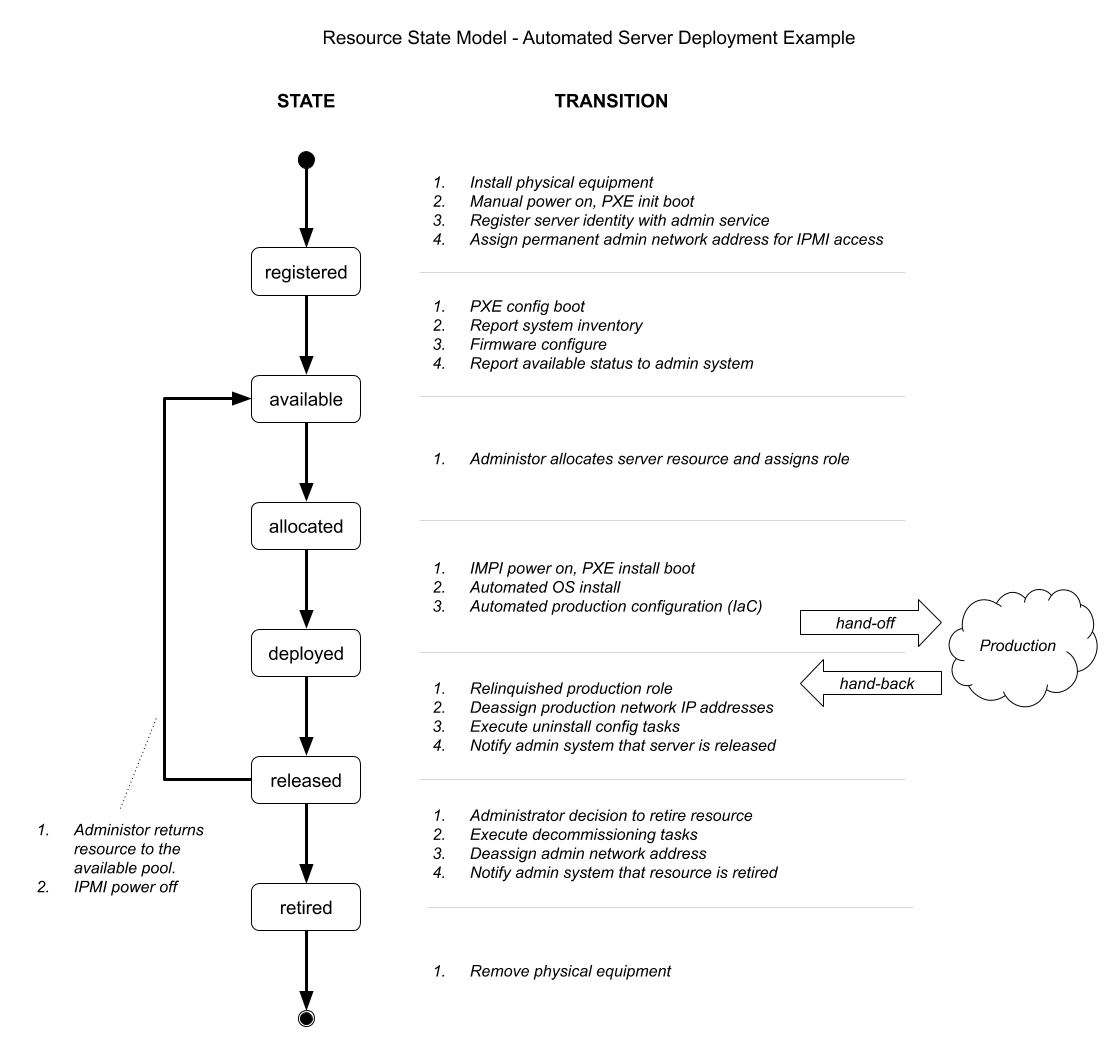
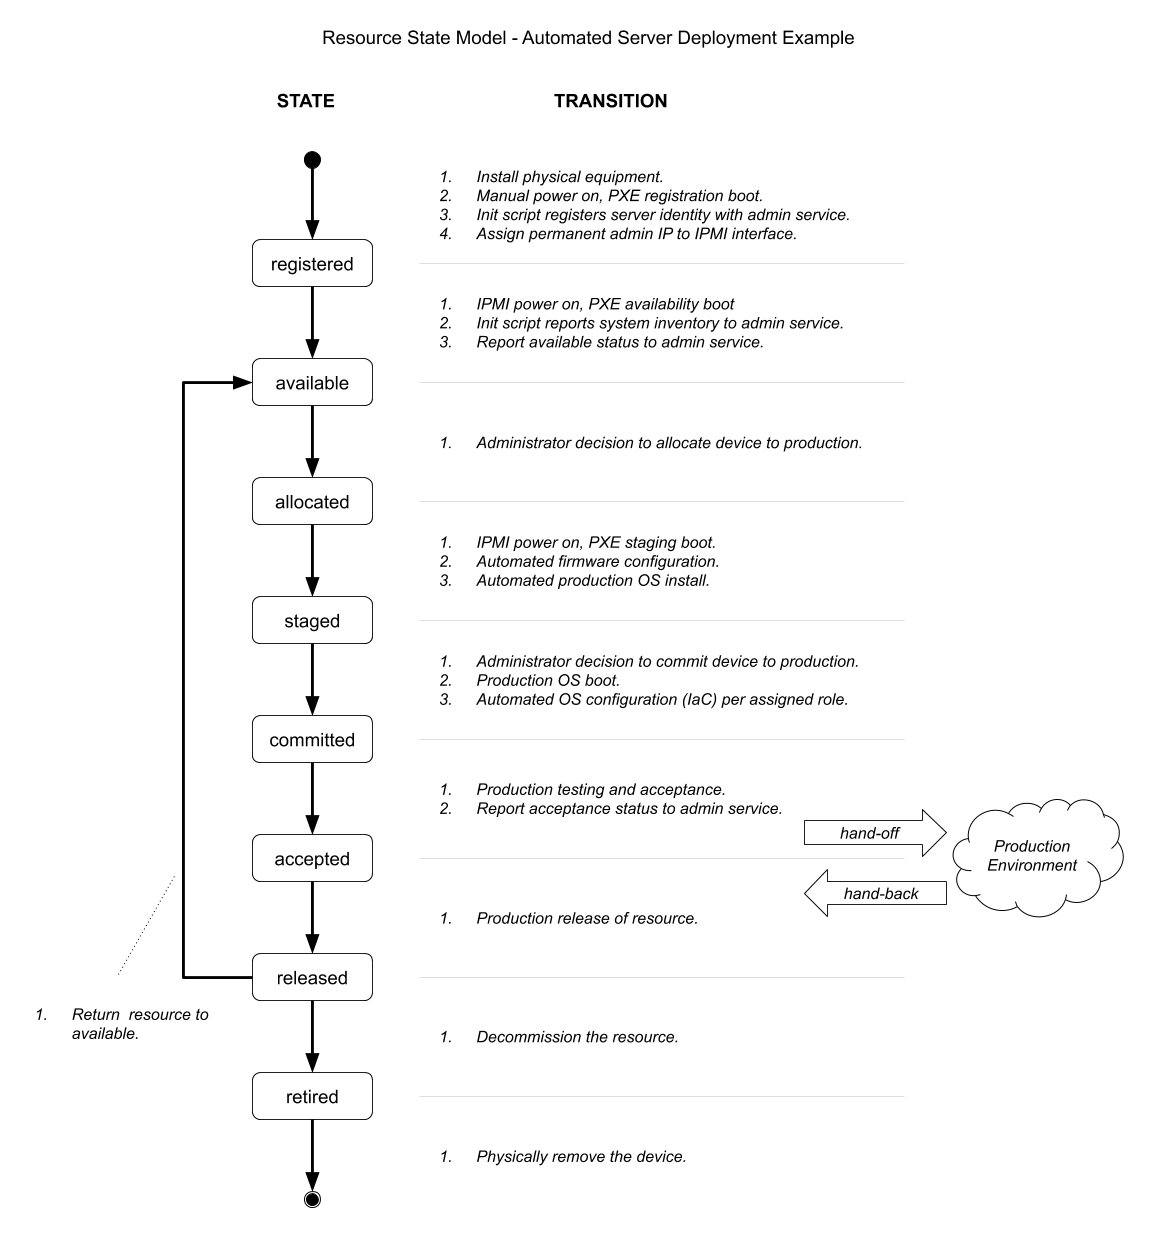
update states and diagrams

diff --git a/doc/Overview.md b/doc/Overview.md
@@ -16,26 +16,22 @@ Resource deployment is represented using a simple life-cycle state model. Transi
 ![state model](images/resource-state-model.png)
 <br>*Resource deployment conceptual state model.*
 
-| State | Description |
-|---|---|
-|registered | Resource existance and identify is recorded. |
-|available | Resource is ready for allocation to production. |
-|allocated| Resource is assigned to production and is scheduled to be configured. |
-|deployed| Resource is configured and in production. |
-|released| Resource is no longer active in production. |
-|retired | Resource is ready to be removed from facility. |
 
 | State | Description |
 |---|---|
-|registered | Resource existance and identify is recorded. |
-|available | Resource is ready for allocation to production. |
-|allocated| Resource is assigned to production and is scheduled to be deployed. |
-|deployed| Resource is in a known states (e.g. OS installed, pathed to know level, minimal admin network config). |
-|configured| Resource is configured and in production, e.g. media device ready to be tested, with *role* with assigned names, active media interfaces. |
-|ready| Resources is accepted for production. |
+|registered | Resource existance and identity is recorded. |
+|available | Resource is available for allocation to production. |
+|allocated| Resource is allocated to production and scheduled for staging. |
+|staged| Resource is initialized and prepared for final configuration.|
+|configured| Resource is configured and ready for production acceptance. |
+|accepted| Resources is accepted and in use for production. |
 |released| Resource is no longer active in production. |
 |retired | Resource is ready to be removed from facility. |
 
+<!--
+|staged| Resource is initialized and ready for configuration.| Firware configured, OS installed, initial network configuration. |
+|configured| Resource is configured and in production, e.g. media device role assigned, name assigned, active media interfaces, ready to be tested. |
+-->
 
 ## Generic Resource Deployment
 
